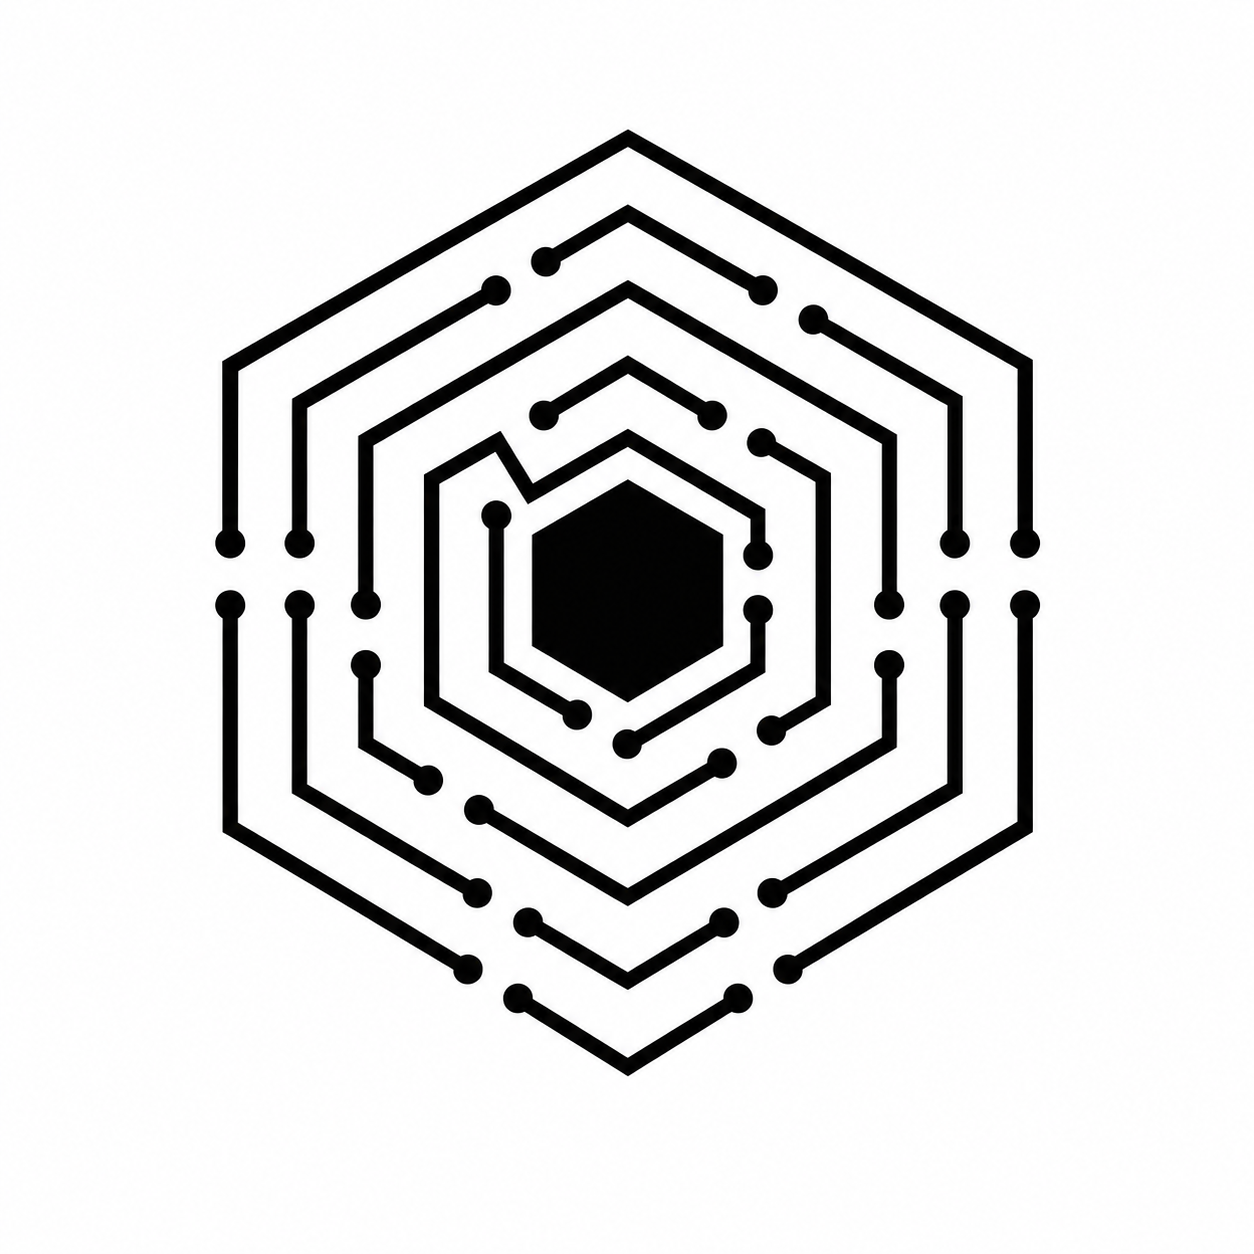
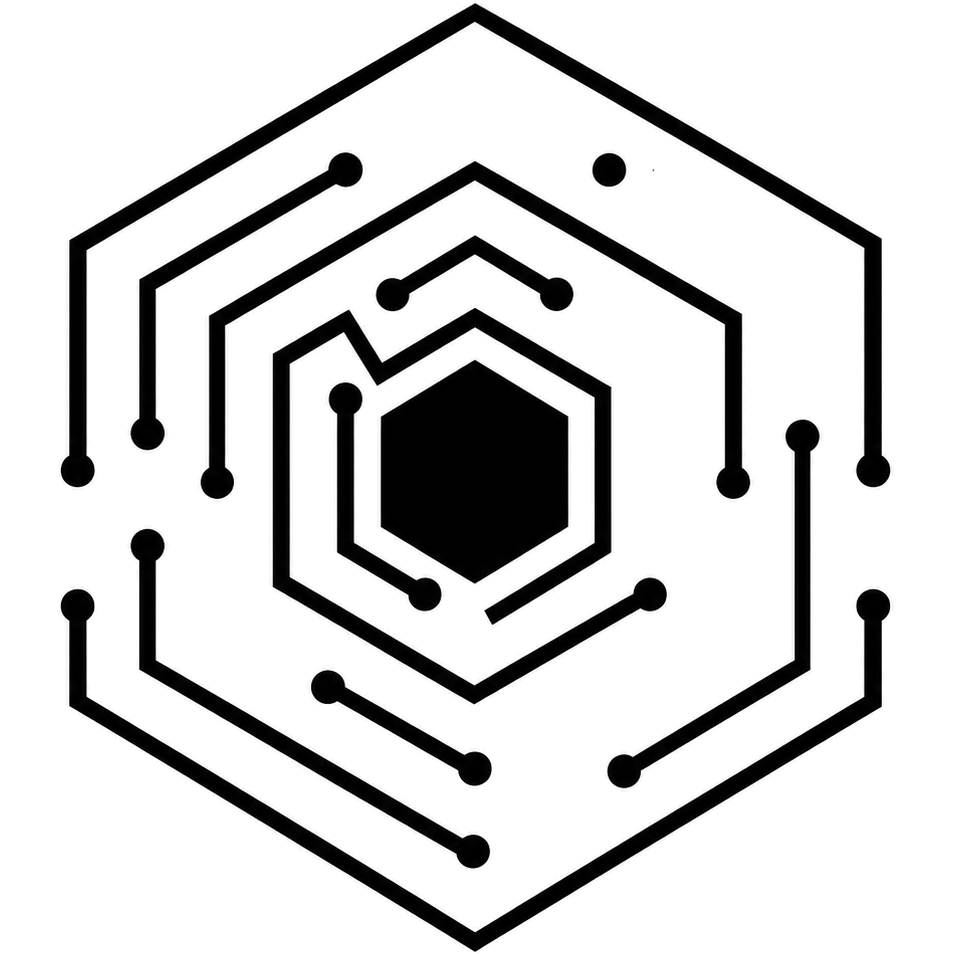
feat(theme): theme-aware chrome, buttons & empty states; new brand mark
- Replace the brand mark with a transparent circuit-hexagon PNG and recolor
  it per surface (black on light chrome, white on dark via CSS invert); the
  one file drives the favicon and every in-app logo placement.
- Header now tracks --color-surface-soft like the sidebar so it follows the
  selected/custom theme; header Upgrade button moved to the themed-surface
  ghost style.
- Replace hardcoded / non-customizable colors with theme tokens across
  Emails (folder nav, empty state, Compose/Add-account), Chat (Add Channel),
  Drive (Upload/New folder), Notes & Tasks (empty states, filter active) and
  the platform admin empty state, so they follow the appearance editor and
  light/dark instead of fixed grays/navy.

Changed region(s): [[0.0608, 0.0, 0.9423, 1.0]]

diff --git a/frontend/src/emails/emails.css b/frontend/src/emails/emails.css
@@ -237,18 +237,21 @@
 
 /* ================= BUTTONS ================= */
 .compose-btn {
-  background: var(--color-primary);
-  color: var(--color-surface);
+  /* Ghost button that tracks the themed surface so it matches the selected
+     page colors instead of the neutral primary (which read as gray). The
+     border + themed ink keep it legible against the mail background. */
+  background: var(--color-surface);
+  color: var(--color-text-primary);
   padding: var(--space-5);
   border-radius: calc(var(--radius-md) - 3px);
-  border: none;
+  border: 1px solid var(--color-input-border);
   cursor: pointer;
   margin-bottom: var(--space-5);
   font-weight: 600;
 }
 
 .compose-btn:hover {
-  background: var(--color-primary-hover);
+  background: var(--color-surface-hover);
 }
 
 /* Header row for the Accounts section: label on the left, "+" action
@@ -613,7 +616,11 @@
   gap: 2px;
   padding: 3px;
   margin-top: var(--space-4);
-  background: var(--color-email-control-bg);
+  /* Track the themeable mail background (the sidebar it sits in) instead of the
+     fixed, non-customizable --color-email-control-bg navy, which stayed blue on
+     custom themes. The border + the lighter active row keep the folder group
+     legible against it. */
+  background: var(--color-email-bg);
   border: 1px solid var(--color-border);
   border-radius: var(--radius-md);
 }
@@ -1214,7 +1221,10 @@
   padding: 24px;
   border: 1px dashed var(--color-input-border);
   border-radius: var(--radius-md);
-  background: rgb(255, 255, 255, 0.5);
+  /* Track the themeable mail surface so the empty-state panel follows the
+     selected/custom theme instead of a fixed translucent white (which read as a
+     flat gray box on dark themes). */
+  background: var(--color-email-list-bg);
   color: var(--color-text-muted);
   text-align: center;
 }
@@ -1235,22 +1245,24 @@
   line-height: 1.5;
 }
 
-/* Primary CTA inside the no-accounts empty state. Matches the Compose
-   button's filled-primary look so the "connect a mailbox" action reads as
-   the obvious next step. */
+/* CTA inside the no-accounts empty state. Matches the Compose button's
+   themed-surface ghost look so the "connect a mailbox" action reads as the
+   obvious next step while following the selected page colors. */
 .email-empty-add-account {
   margin-top: 8px;
   padding: var(--space-5) calc(var(--space-5) * 1.5);
-  background: var(--color-primary);
-  color: var(--color-surface);
-  border: none;
+  /* Ghost style matching the themed surface (see .compose-btn) so the CTA
+     follows the selected page colors rather than the neutral primary. */
+  background: var(--color-surface);
+  color: var(--color-text-primary);
+  border: 1px solid var(--color-input-border);
   border-radius: calc(var(--radius-md) - 3px);
   font-weight: 600;
   cursor: pointer;
 }
 
 .email-empty-add-account:hover {
-  background: var(--color-primary-hover);
+  background: var(--color-surface-hover);
 }
 
 .email-bulk-action:disabled,

diff --git a/frontend/src/components/Layout.css b/frontend/src/components/Layout.css
@@ -14,8 +14,11 @@
    🔝 HEADER
 ============================== */
 .header {
-  background: lightslategray;
-  color: black;
+  /* Track the same themeable surface as the sidebar so the header follows the
+     active/custom theme background instead of a fixed midgray. Text uses the
+     themeable ink token so contrast flips with the surface too. */
+  background: var(--color-surface-soft);
+  color: var(--color-text-primary);
   display: flex;
   align-items: center;
   justify-content: space-between;
@@ -90,6 +93,14 @@
 .logo-mark {
   display: block;
   flex: 0 0 auto;
+}
+
+/* The brand mark is a transparent, pure-black PNG. On the light-theme header
+   (lightslategray) black reads fine; on the dark-theme header (navy) flip it to
+   white so it stays visible. Scoped to the header so other placements are
+   unaffected. */
+:root[data-theme="dark"] .header .logo-mark {
+  filter: invert(1) brightness(2);
 }
 
 .logo-word {
@@ -1328,17 +1339,22 @@
 .header-upgrade-btn {
   min-height: 26px;
   padding: 0 10px;
-  border: 1px solid var(--color-primary-action);
+  /* Themed-surface ghost button (matches the email Compose / Add-account
+     buttons): fills with the surface token and uses themed ink + a border, so
+     it follows the selected page colors and sits quietly on the header instead
+     of being a bright inverted block. */
+  border: 1px solid var(--color-input-border);
   border-radius: var(--radius-pill);
-  background: var(--color-primary-action);
-  color: var(--color-surface);
+  background: var(--color-surface);
+  color: var(--color-text-primary);
   font-size: var(--text-xs);
   font-weight: 800;
   cursor: pointer;
 }
 
 .header-upgrade-btn:hover {
-  background: var(--color-primary-action-hover);
+  background: var(--color-surface-hover);
+  border-color: var(--color-border-muted);
 }
 
 /* Bug-report shortcut in the header — sits just before the Upgrade
@@ -1550,12 +1566,13 @@
 
 /* ============================================================
    🌙 DARK MODE — Layout chrome
-   The header was originally `lightslategray` (a midgray) which reads
-   fine in dark mode but feels light. Bump it down to a charcoal so
-   it visually belongs with the dark surface.
+   The header tracks the themeable soft surface (same token as the
+   sidebar) so it follows custom/near-black themes instead of staying
+   on the non-themeable navy. Default dark is unchanged: surface-soft
+   is also #0a1730 there.
    ============================================================ */
 :root[data-theme="dark"] .header {
-  background: var(--color-surface-darken);
+  background: var(--color-surface-soft);
   border-bottom: 1px solid var(--color-border-dark);
   color: var(--color-surface-tint-slate);
 }

diff --git a/frontend/src/components/BrandLogo.tsx b/frontend/src/components/BrandLogo.tsx
@@ -3,6 +3,12 @@
 // sync — change the file to change the mark everywhere. No text is baked in —
 // the wordmark is rendered separately next to it.
 //
+// The PNG is a transparent-background, pure-black monochrome mark, so its color
+// is driven by CSS: it shows black on light chrome and is flipped to white via
+// `filter: invert()` on dark surfaces (see the `.brand-logo` rules in
+// Layout.css / marketing.css). Every instance carries the `brand-logo` class so
+// those rules can target it regardless of the per-call-site className.
+//
 // `gradientId` is accepted but unused now (kept so existing call sites that
 // pass it keep compiling); it mattered only for the previous inline SVG.
 type BrandLogoProps = {
@@ -19,7 +25,7 @@ export default function BrandLogo({
 }: BrandLogoProps) {
   return (
     <img
-      className={className}
+      className={["brand-logo", className].filter(Boolean).join(" ")}
       src="/brand/fluxze.png"
       width={size}
       height={size}
@@ -27,9 +33,6 @@ export default function BrandLogo({
       style={{
         objectFit: "contain",
         display: "block",
-        // Raster colors are baked in; nudge saturation/contrast so the light
-        // teal reads more vividly. (Can't darken without graying the white bg.)
-        filter: "saturate(1.4) contrast(1.1)",
       }}
     />
   );

diff --git a/frontend/src/chat/chat.css b/frontend/src/chat/chat.css
@@ -86,12 +86,14 @@
 }
 
 .new-channel-btn {
-  /* Centered on its own line under the "Channels" title. */
+  /* Centered on its own line under the "Channels" title. Themed-surface ghost
+     style (matches the email Compose / header Upgrade buttons) so it follows the
+     selected page colors instead of the fixed accent. */
   align-self: center;
-  border: 1px solid var(--color-primary-action);
+  border: 1px solid var(--color-input-border);
   border-radius: var(--radius-sm);
-  background: var(--color-primary-action);
-  color: var(--color-surface);
+  background: var(--color-surface);
+  color: var(--color-text-primary);
   padding: 7px 10px;
   font-weight: 700;
   cursor: pointer;
@@ -99,7 +101,8 @@
 }
 
 .new-channel-btn:hover {
-  background: var(--color-primary-action-hover);
+  background: var(--color-surface-hover);
+  border-color: var(--color-border-muted);
 }
 
 .channel-form {

diff --git a/frontend/src/tasks/tasks.css b/frontend/src/tasks/tasks.css
@@ -104,7 +104,9 @@
 
 .task-filter:hover,
 .task-filter.active {
-  background: lightslategray;
+  /* Themed highlight so the active/hover filter tracks the selected colors
+     instead of the fixed lightslategray (which ignored custom themes). */
+  background: var(--color-surface-hover);
   color: var(--color-text-primary);
   font-weight: 650;
 }
@@ -928,7 +930,9 @@
   gap: 8px;
   border: 1px dashed var(--color-input-border);
   border-radius: var(--radius-md);
-  background: rgb(255, 255, 255, 0.5);
+  /* Track the themed list surface so the empty state follows the selected page
+     colors instead of a fixed translucent white (which read as gray on dark). */
+  background: var(--color-email-list-bg);
   color: var(--color-text-muted);
   text-align: center;
 }

diff --git a/frontend/src/drive/drive.css b/frontend/src/drive/drive.css
@@ -92,7 +92,6 @@
   font-weight: 700;
 }
 
-.drive-folder-new-btn,
 .drive-folder-create-btn,
 .upload-btn {
   border-color: var(--color-primary-action);
@@ -100,11 +99,18 @@
   color: var(--color-surface);
 }
 
-.drive-folder-new-btn:hover,
 .drive-folder-create-btn:hover,
 .upload-btn:hover {
   background: var(--color-primary-action-hover);
   border-color: var(--color-primary-action-hover);
+}
+
+/* New folder + toolbar Upload (both carry .drive-folder-new-btn) keep the
+   themed-surface ghost look from the base rule above so they follow the selected
+   page colors instead of the fixed accent. */
+.drive-folder-new-btn:hover {
+  background: var(--color-surface-hover);
+  border-color: var(--color-border-muted);
 }
 
 .drive-folder-cancel-btn:hover,

diff --git a/frontend/src/organization/platformAdmin.css b/frontend/src/organization/platformAdmin.css
@@ -337,7 +337,10 @@
   padding: 28px;
   border: 1px dashed var(--color-input-border);
   border-radius: var(--radius-md);
-  background: rgb(255, 255, 255, 0.5);
+  /* Track the themed surface (same as the admin cards) so the empty state
+     follows the selected page colors instead of a fixed translucent white
+     (which read as gray on dark themes). */
+  background: var(--color-surface);
   color: var(--color-text-muted);
   text-align: center;
 }

diff --git a/frontend/src/notes/notes.css b/frontend/src/notes/notes.css
@@ -330,7 +330,9 @@
   gap: 8px;
   border: 1px dashed var(--color-input-border);
   border-radius: var(--radius-md);
-  background: rgb(255, 255, 255, 0.5);
+  /* Track the themed list surface so the empty state follows the selected page
+     colors instead of a fixed translucent white (which read as gray on dark). */
+  background: var(--color-email-list-bg);
   color: var(--color-text-muted);
   text-align: center;
   padding: 24px;

diff --git a/frontend/src/marketing/marketing.css b/frontend/src/marketing/marketing.css
@@ -444,6 +444,12 @@
   padding: 2.5rem 2rem 1.5rem 2rem;
 }
 
+/* The footer is deep navy in BOTH themes, so the black brand mark must always be
+   flipped to white here (a theme-only rule would hide it on the light theme). */
+.marketing-footer .brand-logo {
+  filter: invert(1) brightness(2);
+}
+
 .marketing-footer-inner {
   max-width: 1200px;
   margin: 0 auto;
